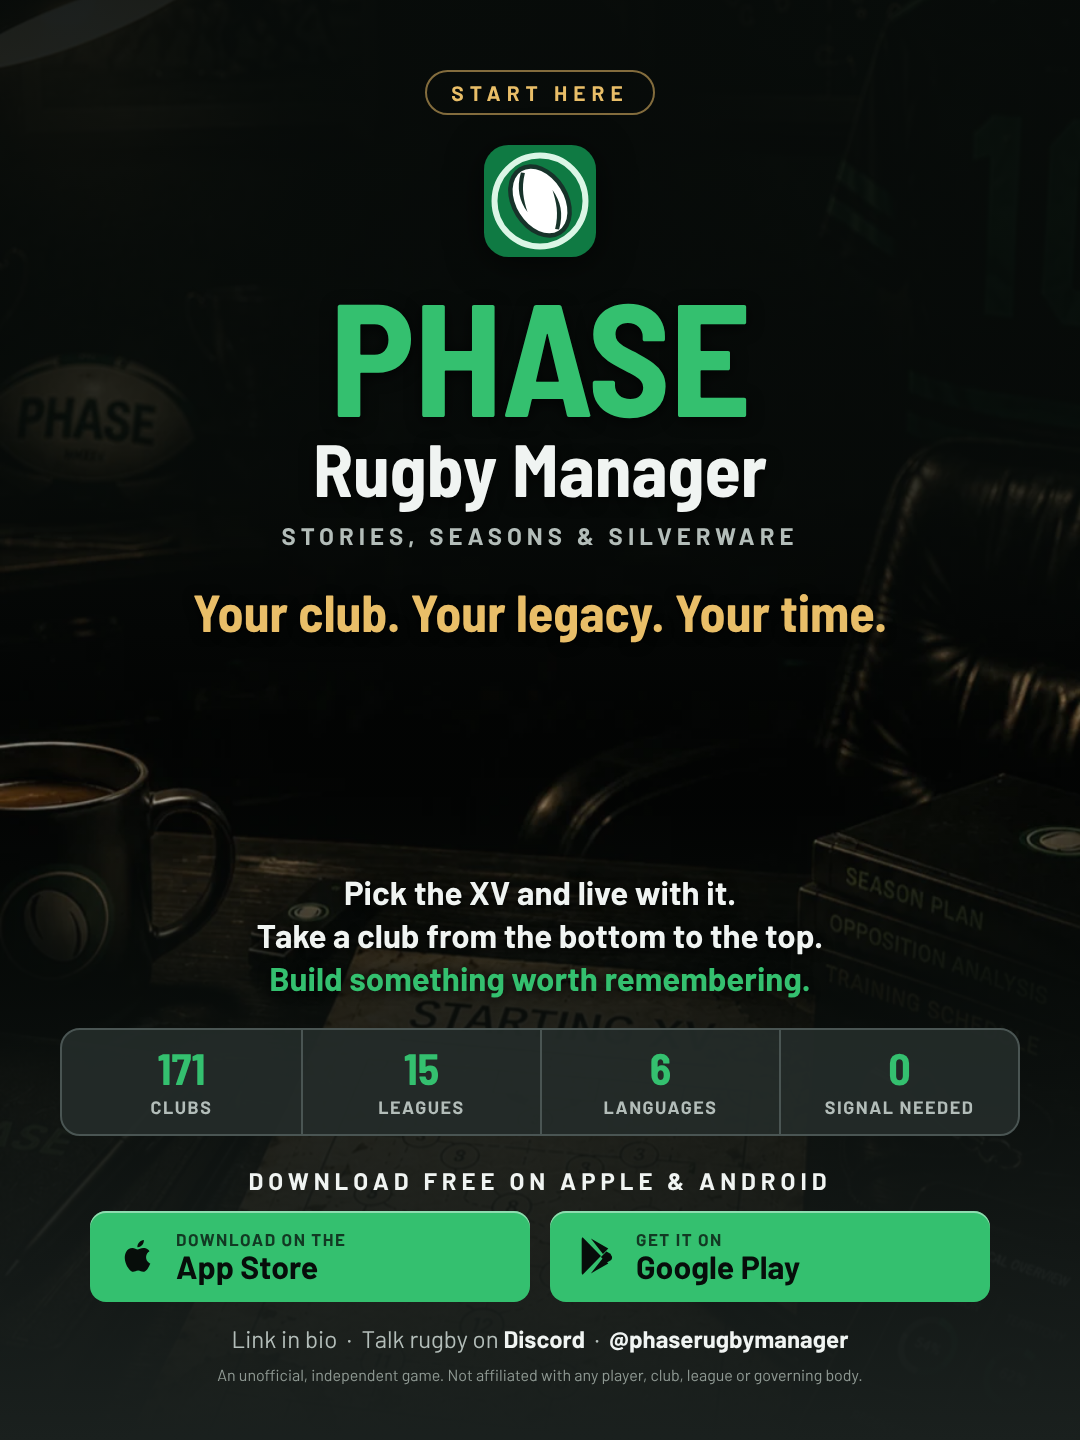
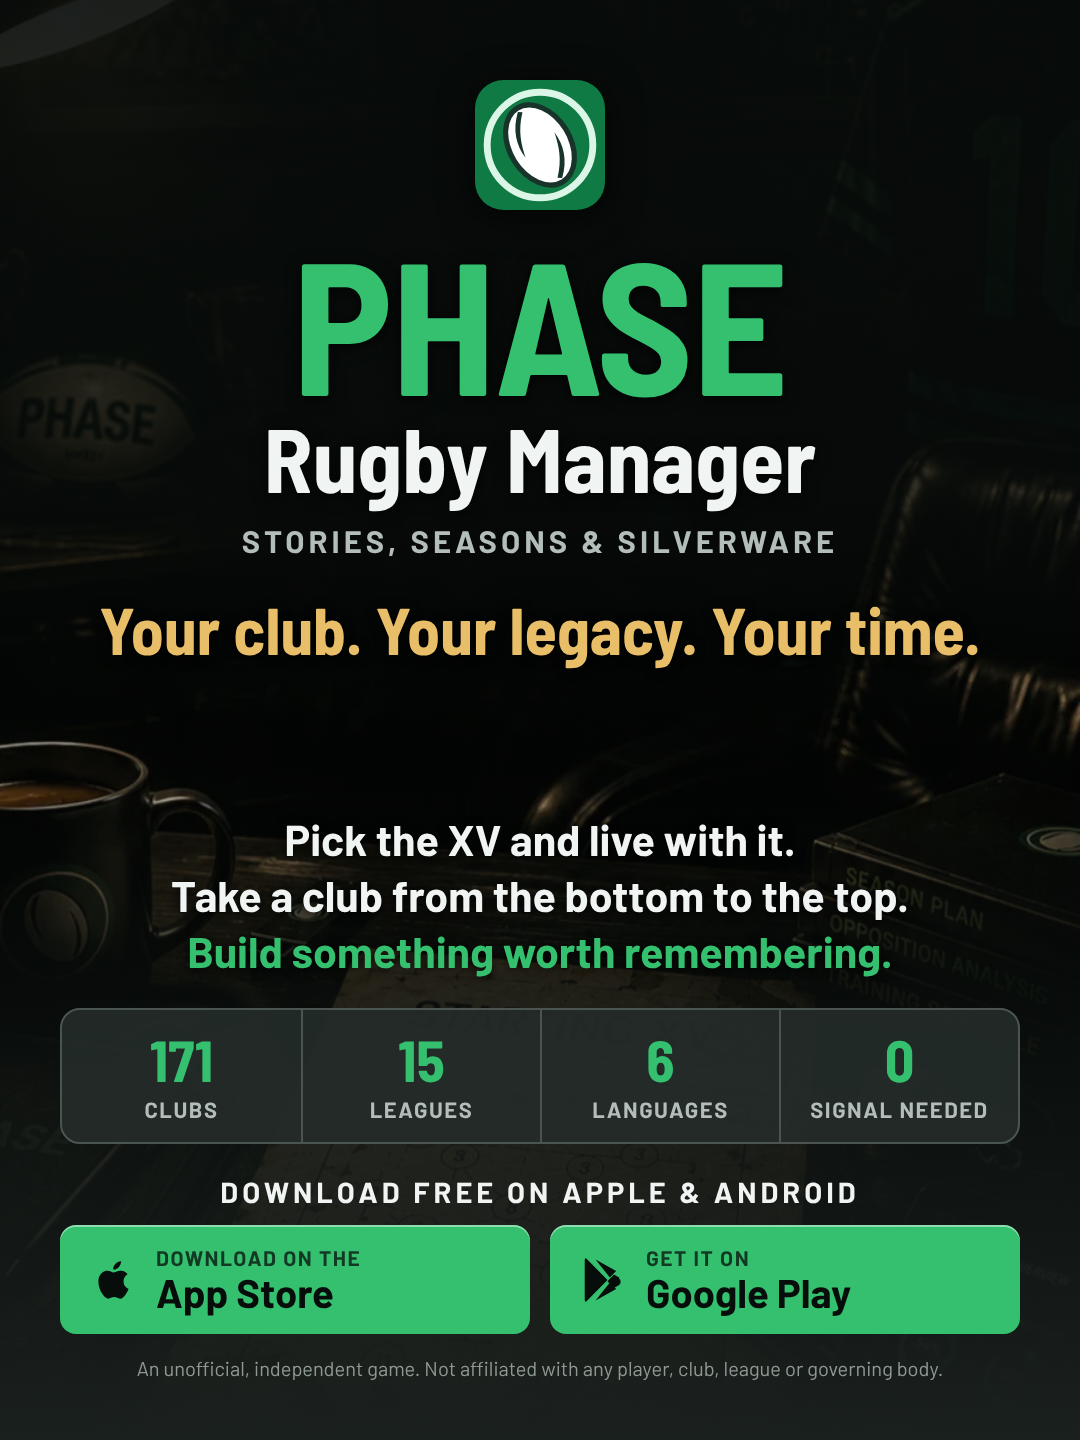
Pinned post: drop Start here and socials line, larger type
Claude-Session: https://claude.ai/code/session_01SkkDyBEzPXwLzKDjPnHoVw

diff --git a/art/social/pinned-post/post.html b/art/social/pinned-post/post.html
@@ -8,35 +8,34 @@ html,body{width:1080px;height:1440px;background:var(--canvas);overflow:hidden}
 .post{position:relative;width:1080px;height:1440px;color:var(--text);font-family:'Barlow',sans-serif}
 .bg{position:absolute;inset:0;background:url(../../../landing/img/hero.webp) center 58%/cover no-repeat}
 .shade{position:absolute;inset:0;background:linear-gradient(to bottom,rgba(8,12,10,.92) 0%,rgba(8,12,10,.82) 34%,rgba(8,12,10,.30) 50%,rgba(8,12,10,.30) 56%,rgba(8,12,10,.86) 68%,var(--canvas) 100%)}
-.top{position:absolute;top:70px;left:0;right:0;text-align:center}
+.top{position:absolute;top:80px;left:0;right:0;text-align:center}
 .kicker{display:inline-block;font-weight:700;font-size:21px;letter-spacing:6px;text-transform:uppercase;color:var(--gold);border:2px solid rgba(233,190,104,.55);padding:8px 24px;border-radius:999px;margin-bottom:30px}
-.mark{width:112px;height:112px;display:block;margin:0 auto 20px;filter:drop-shadow(0 6px 18px rgba(0,0,0,.6))}
+.mark{width:130px;height:130px;display:block;margin:0 auto 22px;filter:drop-shadow(0 6px 18px rgba(0,0,0,.6))}
 h1{font-family:'BSC';font-weight:700;line-height:.95;text-shadow:0 3px 16px rgba(0,0,0,.7)}
-h1 .b{display:block;font-size:160px;color:var(--green);letter-spacing:-1px}
-h1 .s{display:block;font-size:74px;margin-top:4px}
-.tag{margin-top:18px;font-weight:700;font-size:24px;letter-spacing:5px;text-transform:uppercase;color:var(--sec)}
-.hook{margin-top:30px;font-family:'BSC';font-size:52px;color:var(--gold);text-shadow:0 2px 12px rgba(0,0,0,.8)}
-.bottom{position:absolute;left:60px;right:60px;bottom:56px;text-align:center}
-.lines{font-size:33px;line-height:1.3;font-weight:700;text-shadow:0 2px 12px rgba(0,0,0,.85);margin-bottom:28px}
+h1 .b{display:block;font-size:188px;color:var(--green);letter-spacing:-1px}
+h1 .s{display:block;font-size:90px;margin-top:4px}
+.tag{margin-top:22px;font-weight:700;font-size:31px;letter-spacing:4px;text-transform:uppercase;color:var(--sec)}
+.hook{margin-top:30px;font-family:'BSC';font-size:66px;color:var(--gold);text-shadow:0 2px 12px rgba(0,0,0,.8)}
+.bottom{position:absolute;left:60px;right:60px;bottom:60px;text-align:center}
+.lines{font-size:43px;line-height:1.3;font-weight:700;text-shadow:0 2px 12px rgba(0,0,0,.85);margin-bottom:28px}
 .lines .g{color:var(--green)}
 .facts{display:grid;grid-template-columns:repeat(4,1fr);background:rgba(36,43,41,.92);border:2px solid var(--border);border-radius:20px;overflow:hidden;margin-bottom:30px}
-.facts div{padding:16px 6px;border-left:2px solid var(--border)}
+.facts div{padding:20px 6px;border-left:2px solid var(--border)}
 .facts div:first-child{border-left:0}
-.facts b{display:block;font-family:'BSC';font-size:44px;line-height:1;color:var(--green)}
-.facts span{display:block;margin-top:6px;font-size:18px;font-weight:700;letter-spacing:1.5px;text-transform:uppercase;color:var(--sec)}
-.dl{font-weight:700;font-size:24px;letter-spacing:5px;text-transform:uppercase;color:var(--text);margin-bottom:16px}
+.facts b{display:block;font-family:'BSC';font-size:58px;line-height:1;color:var(--green)}
+.facts span{display:block;margin-top:8px;font-size:22px;font-weight:700;letter-spacing:1.5px;text-transform:uppercase;color:var(--sec)}
+.dl{font-weight:700;font-size:29px;letter-spacing:4px;text-transform:uppercase;color:var(--text);margin-bottom:16px}
 .stores{display:flex;gap:20px;justify-content:center}
-.store{display:flex;align-items:center;gap:16px;width:440px;padding:18px 26px;border-radius:16px;background:var(--green);color:var(--on);text-align:left;box-shadow:inset 0 2px rgba(255,255,255,.45)}
-.store svg{width:44px;height:44px;flex:none}
-.store .l1{display:block;font-size:17px;letter-spacing:1.5px;text-transform:uppercase;font-weight:700;opacity:.75}
-.store .l2{display:block;font-size:32px;font-weight:700;line-height:1.1}
+.store{display:flex;align-items:center;gap:16px;width:470px;padding:20px 28px;border-radius:16px;background:var(--green);color:var(--on);text-align:left;box-shadow:inset 0 2px rgba(255,255,255,.45)}
+.store svg{width:52px;height:52px;flex:none}
+.store .l1{display:block;font-size:21px;letter-spacing:1.5px;text-transform:uppercase;font-weight:700;opacity:.75}
+.store .l2{display:block;font-size:40px;font-weight:700;line-height:1.1}
 .sub{margin-top:22px;font-size:24px;color:var(--sec)}
 .sub b{color:var(--text)}
-.fine{margin-top:12px;font-size:16px;color:#8f9993}
+.fine{margin-top:22px;font-size:20px;color:#8f9993}
 </style></head><body><div class="post">
 <div class="bg"></div><div class="shade"></div>
 <div class="top">
-  <div class="kicker">Start here</div>
   <img class="mark" src="../../../landing/img/icon.svg" alt="">
   <h1><span class="b">PHASE</span><span class="s">Rugby Manager</span></h1>
   <p class="tag">Stories, seasons &amp; silverware</p>
@@ -55,7 +54,6 @@ h1 .s{display:block;font-size:74px;margin-top:4px}
     <div class="store"><svg viewBox="0 0 24 24" fill="currentColor"><path d="M16.4 12.7c0-2.2 1.8-3.3 1.9-3.3-1-1.5-2.6-1.7-3.2-1.7-1.4-.1-2.7.8-3.3.8-.7 0-1.7-.8-2.8-.8-1.5 0-2.8.8-3.5 2.1-1.5 2.6-.4 6.5 1.1 8.6.7 1 1.6 2.2 2.7 2.2 1.1 0 1.5-.7 2.8-.7 1.3 0 1.6.7 2.8.7 1.2 0 1.9-1.1 2.6-2.1.8-1.2 1.2-2.4 1.2-2.4s-2.3-.9-2.3-3.4ZM14.3 6c.6-.7 1-1.7.9-2.7-.9 0-2 .6-2.6 1.3-.6.6-1.1 1.7-.9 2.6 1 .1 2-.5 2.6-1.2Z"/></svg><span><span class="l1">Download on the</span><span class="l2">App Store</span></span></div>
     <div class="store"><svg viewBox="0 0 24 24" fill="currentColor"><path d="M3.6 1.8a1.4 1.4 0 0 0-.5 1.1v18.2c0 .45.18.85.5 1.1l10-10.2-10-10.2Zm11.1 9.1 2.9-3-9.5-5.4 6.6 8.4Zm0 2.2-6.6 8.4 9.5-5.4-2.9-3Zm4.3-2.2-2.4-1.4-3 3.1 3 3.1 2.4-1.4c.9-.5.9-2.4 0-2.9v-.5Z"/></svg><span><span class="l1">Get it on</span><span class="l2">Google Play</span></span></div>
   </div>
-  <p class="sub">Link in bio &nbsp;·&nbsp; Talk rugby on <b>Discord</b> &nbsp;·&nbsp; <b>@phaserugbymanager</b></p>
   <p class="fine">An unofficial, independent game. Not affiliated with any player, club, league or governing body.</p>
 </div>
 </div></body></html>
